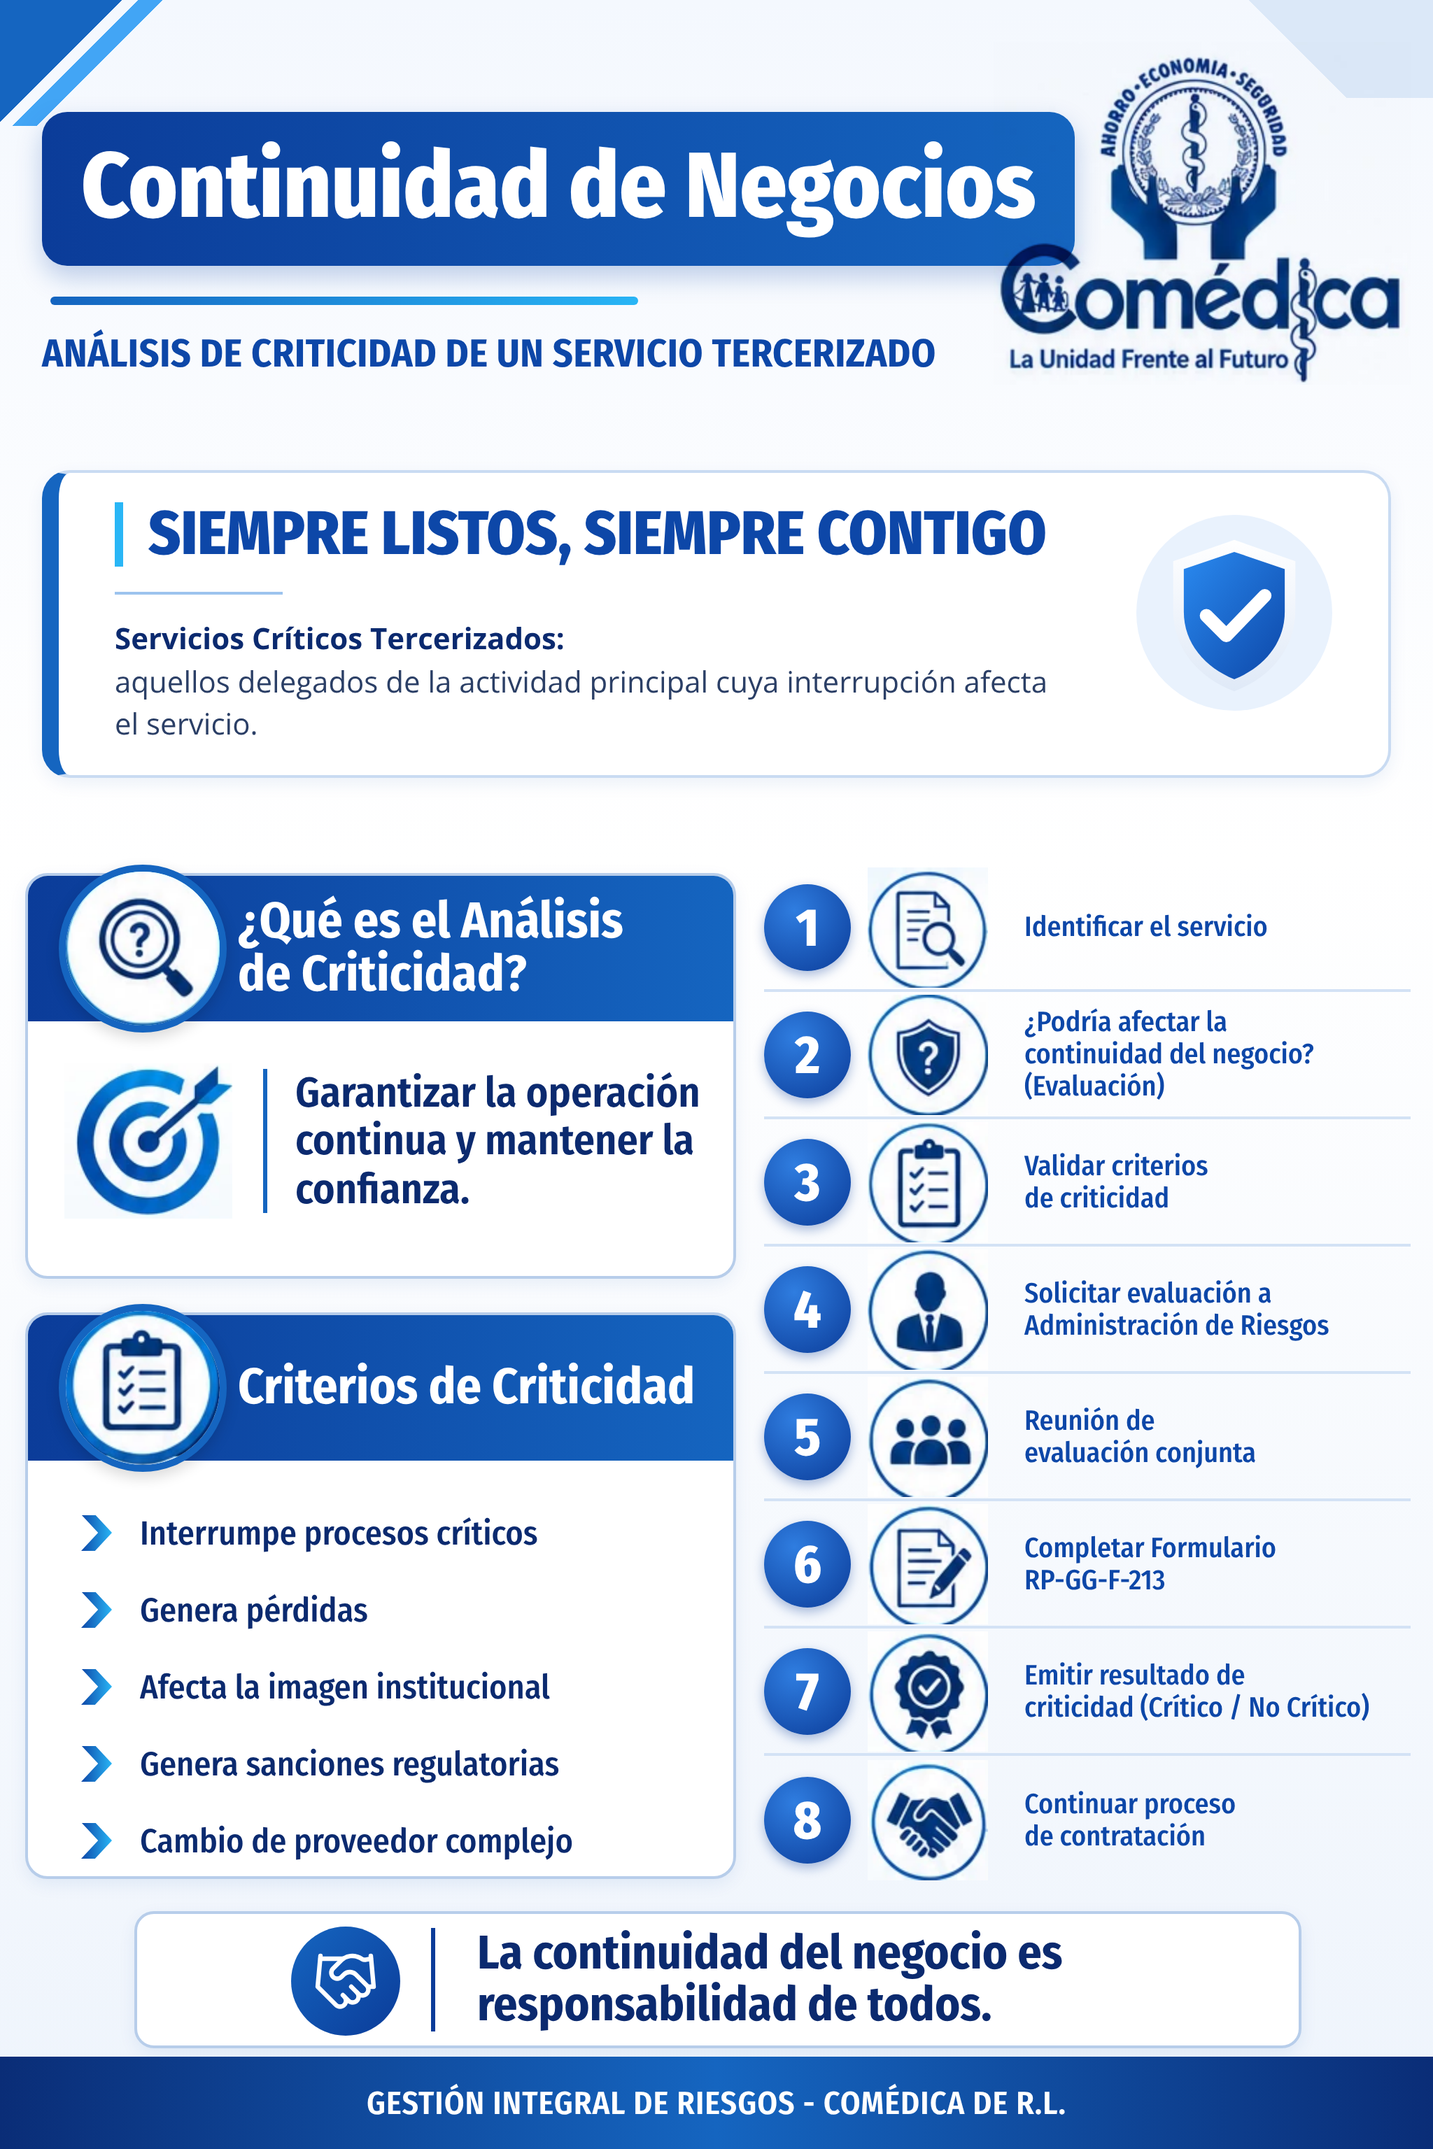
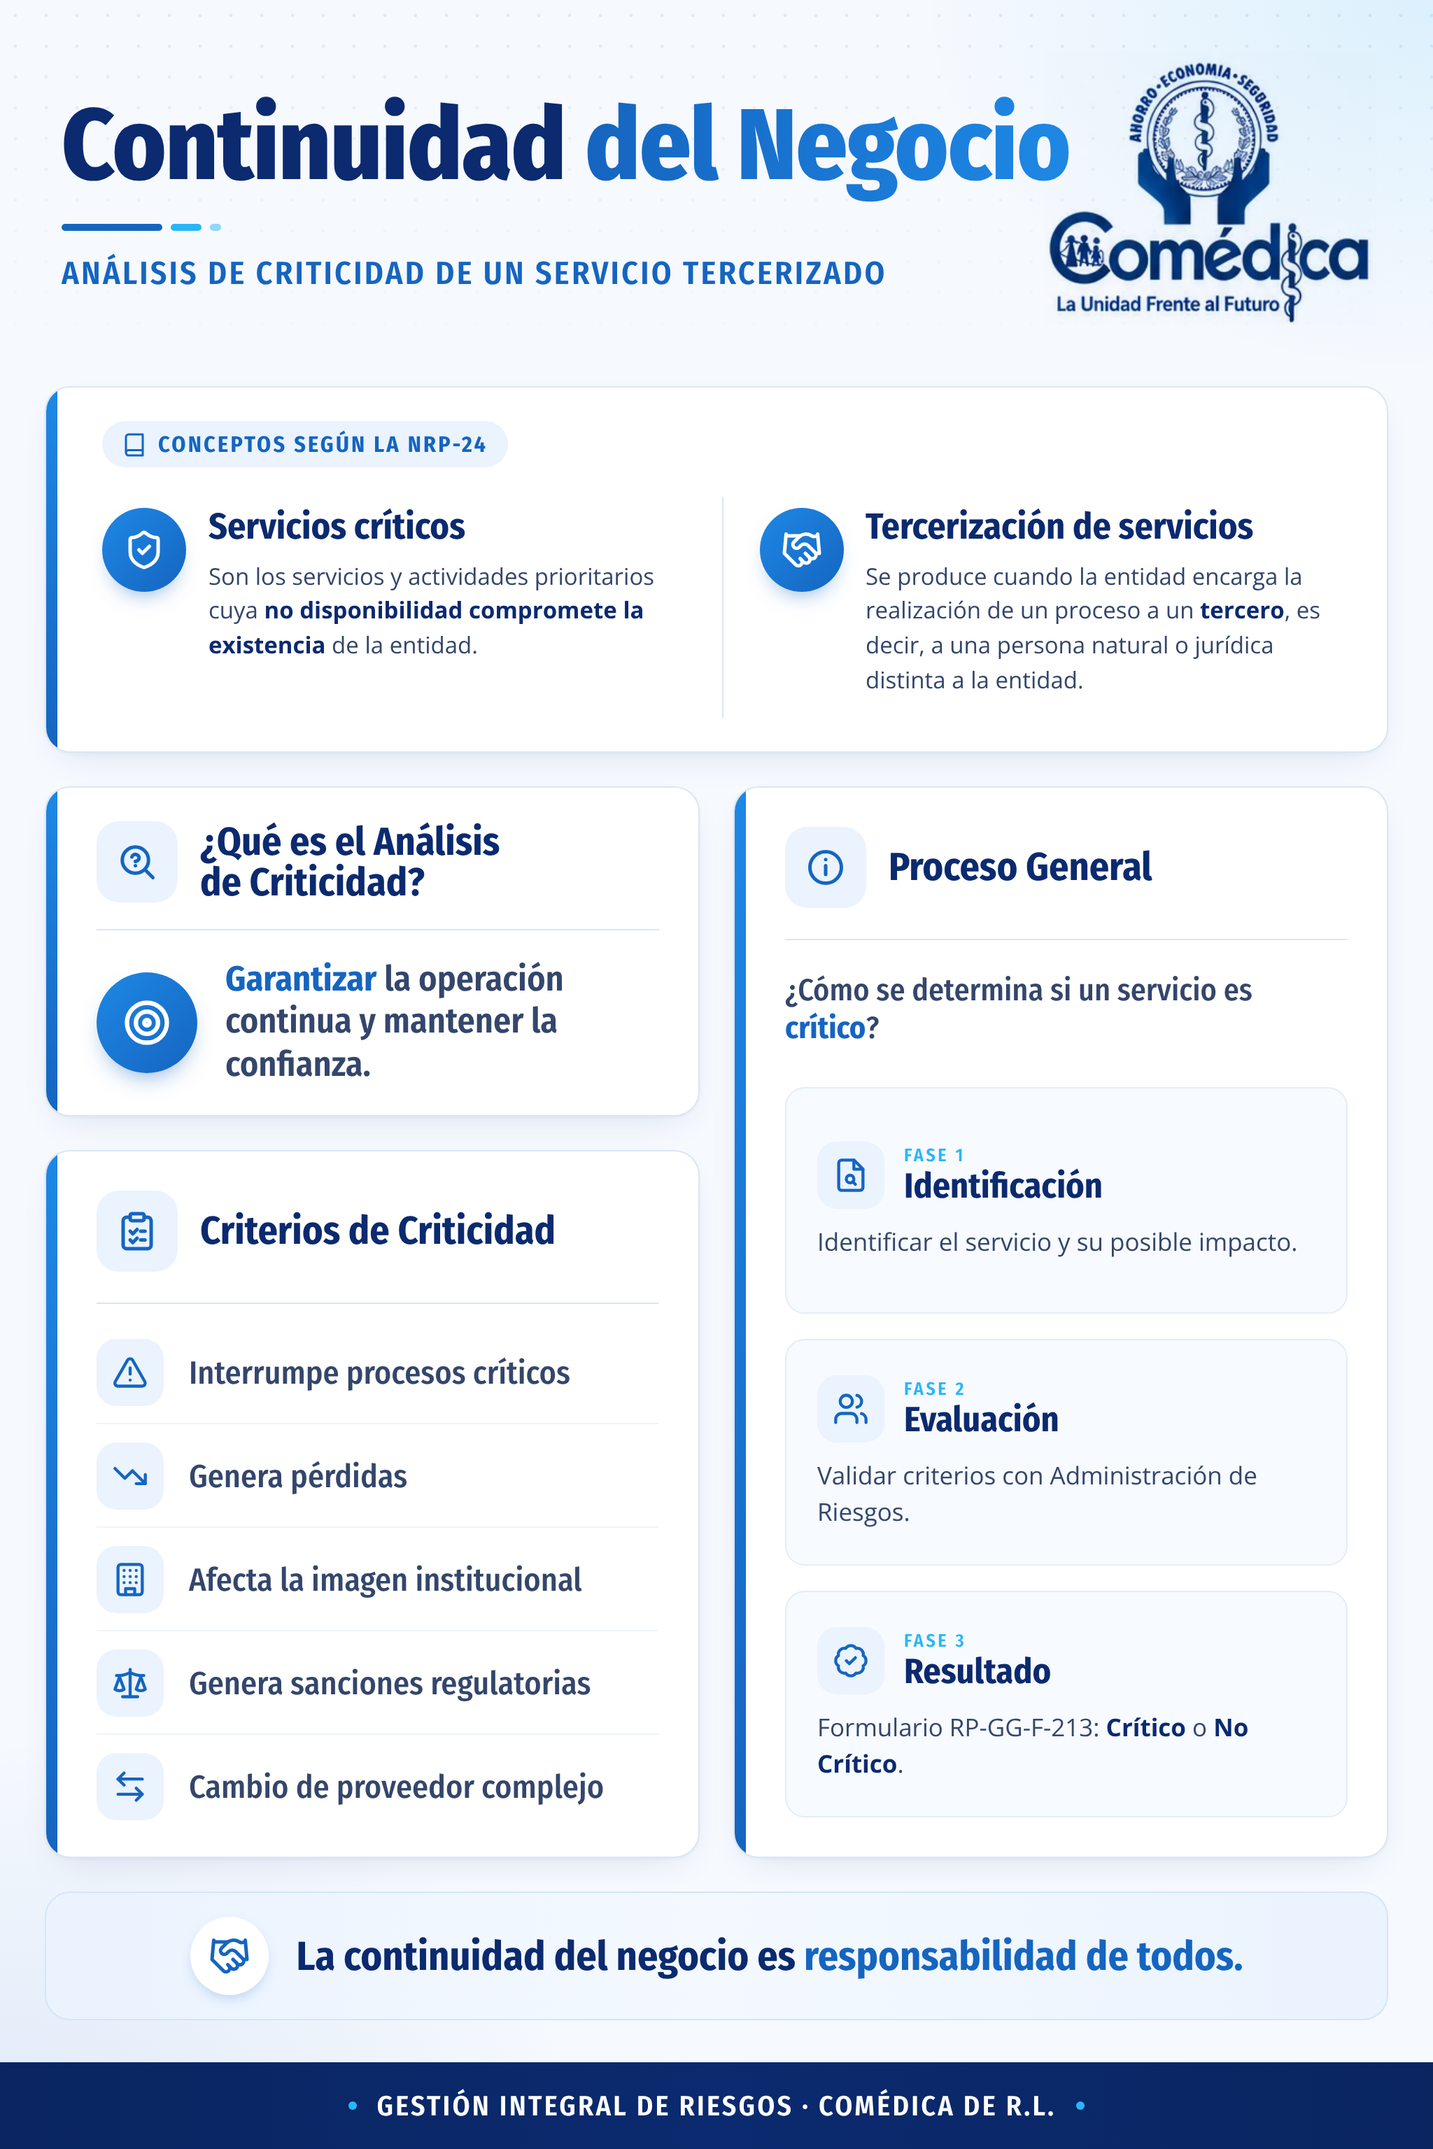
Final bulletin: Continuidad del Negocio title, NRP-24 concepts, option A process
Claude-Session: https://claude.ai/code/session_013QquNuL1JEfsvtRZYgMi7y

diff --git a/boletin-continuidad-negocios/fuente/boletin_final.html b/boletin-continuidad-negocios/fuente/boletin_final.html
@@ -1,0 +1,183 @@
+<!doctype html>
+<html lang="es"><head><meta charset="utf-8">
+<link href="https://fonts.googleapis.com/css2?family=Fira+Sans+Condensed:wght@500;600;700;800&family=Open+Sans:wght@400;600;700&display=swap" rel="stylesheet">
+<style>
+*{box-sizing:border-box;margin:0;padding:0}
+:root{--navy:#0b2a6f;--blue:#1565c0;--blue2:#1e88e5;--sky:#29b6f6;--line:#dbe6f4;--soft:#eaf3fe;--txt:#34466b;--muted:#6b7c9c}
+body{width:1024px;height:1536px;font-family:'Open Sans',sans-serif;color:var(--navy);position:relative;overflow:hidden;
+  background:
+    radial-gradient(520px 380px at 100% 0%,rgba(41,182,246,.13),transparent 70%),
+    radial-gradient(600px 420px at 0% 100%,rgba(21,101,192,.10),transparent 70%),
+    #f6f9fe}
+.dots{position:absolute;inset:0;background-image:radial-gradient(rgba(21,101,192,.10) 1.2px,transparent 1.3px);background-size:22px 22px;
+  -webkit-mask-image:linear-gradient(180deg,#000 0,transparent 260px);mask-image:linear-gradient(180deg,#000 0,transparent 260px)}
+svg.i{fill:none;stroke:currentColor;stroke-width:2;stroke-linecap:round;stroke-linejoin:round}
+.fc{font-family:'Fira Sans Condensed',sans-serif}
+
+/* header */
+.header{position:absolute;top:70px;left:44px}
+.title{font-family:'Fira Sans Condensed';font-weight:800;font-size:72px;line-height:.95;letter-spacing:-.5px;color:var(--navy)}
+.title span{background:linear-gradient(90deg,var(--blue),var(--blue2));-webkit-background-clip:text;background-clip:text;color:transparent}
+.rule{display:flex;gap:6px;margin:22px 0 16px}
+.rule i{display:block;height:5px;border-radius:3px;background:var(--sky)}
+.rule i:first-child{width:72px;background:var(--blue)}
+.rule i:nth-child(2){width:22px}
+.rule i:nth-child(3){width:8px;opacity:.5}
+.subtitle{font-family:'Fira Sans Condensed';font-weight:600;font-size:23px;letter-spacing:1.6px;color:var(--blue)}
+.logo{position:absolute;top:36px;right:40px;width:238px;mix-blend-mode:multiply}
+
+/* cards */
+.card{position:absolute;background:#fff;border:1px solid var(--line);border-radius:18px;
+  box-shadow:0 1px 2px rgba(11,42,111,.04),0 10px 28px -12px rgba(11,42,111,.14);overflow:hidden}
+.card::before{content:"";position:absolute;left:0;top:0;bottom:0;width:8px;background:linear-gradient(180deg,var(--blue2),var(--blue))}
+.chip{width:58px;height:58px;border-radius:16px;background:var(--soft);color:var(--blue);display:flex;align-items:center;justify-content:center;flex:none}
+.chip svg{width:30px;height:30px}
+.hd{display:flex;align-items:center;gap:16px;font-family:'Fira Sans Condensed';font-weight:700;font-size:28px;line-height:1.05;color:var(--navy)}
+.sep{height:1px;background:var(--line)}
+
+/* banner */
+.banner{top:276px;left:32px;right:32px;height:196px}
+.banner .txt{position:absolute;left:44px;top:0;bottom:0;right:220px;display:flex;flex-direction:column;justify-content:center}
+.eyebrow{font-family:'Fira Sans Condensed';font-weight:600;font-size:16px;letter-spacing:2px;color:var(--sky);margin-bottom:6px}
+.banner h2{font-family:'Fira Sans Condensed';font-weight:800;font-size:42px;line-height:1;color:var(--navy)}
+.banner h2 span{color:var(--blue)}
+.banner p{margin-top:16px;font-size:18.5px;line-height:1.5;color:var(--txt);max-width:640px}
+.banner p b{color:var(--navy);font-weight:700}
+.sh{position:absolute;right:52px;top:30px;width:136px;height:136px;border-radius:50%;
+  background:radial-gradient(circle at 50% 45%,#fff 0 38%,var(--soft) 39% 100%);box-shadow:inset 0 0 0 1px #d4e5fa}
+.sh::after{content:"";position:absolute;inset:-12px;border-radius:50%;border:1px dashed #c3d9f5}
+.sh svg{position:absolute;left:50%;top:50%;transform:translate(-50%,-50%);width:78px;height:92px;filter:drop-shadow(0 6px 8px rgba(21,101,192,.28))}
+
+/* left column */
+.c1{top:500px;left:32px;width:468px;height:262px}
+.c1 .hd{padding:28px 28px 0 36px}
+.c1 .sep{margin:22px 28px 0 36px}
+.c1 .body{display:flex;align-items:center;gap:20px;padding:24px 28px 0 36px}
+.c1 .body .chip{width:72px;height:72px;border-radius:50%;background:linear-gradient(135deg,var(--blue2),var(--blue));color:#fff;box-shadow:0 8px 16px -6px rgba(21,101,192,.5)}
+.c1 .body .chip svg{width:38px;height:38px}
+.c1 .body p{font-family:'Fira Sans Condensed';font-weight:600;font-size:25px;line-height:1.22;color:var(--txt)}
+.c1 .body p b{color:var(--blue);font-weight:700}
+
+.c2{top:786px;left:32px;width:468px;height:542px}
+.c2 .hd{padding:28px 28px 0 36px}
+.c2 .sep{margin:22px 28px 0 36px}
+.c2 ul{list-style:none;padding:12px 28px 0 36px}
+.c2 li{height:82px;display:flex;align-items:center;gap:18px;border-bottom:1px solid #eef3fa;font-family:'Fira Sans Condensed';font-weight:500;font-size:23px;color:var(--txt)}
+.c2 li:last-child{border-bottom:none}
+.c2 li .chip{width:48px;height:48px;border-radius:14px}
+.c2 li .chip svg{width:26px;height:26px}
+
+/* steps */
+.c3{top:500px;left:524px;right:32px;height:828px}
+.c3 .hd{padding:28px 28px 0 36px}
+.c3 .sep{margin:22px 28px 0 36px}
+.tl{position:absolute;left:36px;right:24px;top:122px}
+.tl::before{content:"";position:absolute;left:19px;top:30px;bottom:30px;width:2px;background:repeating-linear-gradient(180deg,#bcd5f3 0 6px,transparent 6px 11px)}
+.st{position:relative;height:86px;display:flex;align-items:center}
+.n{width:40px;height:40px;border-radius:50%;background:#fff;border:2px solid var(--blue);color:var(--blue);font-family:'Fira Sans Condensed';font-weight:700;font-size:20px;display:flex;align-items:center;justify-content:center;flex:none;position:relative;z-index:1}
+.st:last-child .n{background:var(--blue);color:#fff}
+.st .chip{width:50px;height:50px;border-radius:14px;margin-left:16px}
+.st .chip svg{width:28px;height:28px}
+.st .l{margin-left:16px;font-family:'Fira Sans Condensed';font-weight:500;font-size:19px;line-height:1.18;color:var(--txt)}
+.st .l b{font-weight:700;color:var(--navy)}
+
+/* closing */
+.closing{position:absolute;left:32px;right:32px;top:1352px;height:92px;border-radius:18px;
+  background:linear-gradient(90deg,#eaf3fe,#f4f9ff 50%,#eaf3fe);border:1px solid #d4e5fa;display:flex;align-items:center;justify-content:center;gap:20px}
+.closing .chip{width:56px;height:56px;border-radius:50%;background:#fff;box-shadow:0 4px 10px -4px rgba(21,101,192,.35)}
+.closing p{font-family:'Fira Sans Condensed';font-weight:700;font-size:29px;color:var(--navy)}
+.closing p span{color:var(--blue)}
+.foot{position:absolute;bottom:0;left:0;right:0;height:62px;background:linear-gradient(90deg,#0a2560,var(--navy) 50%,#0a2560);color:#fff;display:flex;align-items:center;justify-content:center;gap:14px;font-family:'Fira Sans Condensed';font-weight:600;font-size:20px;letter-spacing:1.6px}
+.foot i{width:6px;height:6px;border-radius:50%;background:var(--sky);display:block}
+
+.c3 .intro{padding:22px 30px 0 36px;font-family:'Fira Sans Condensed';font-weight:500;font-size:22px;color:var(--txt)}
+.c3 .intro b{color:var(--blue)}
+.ph{margin:22px 28px 0 36px;padding:22px 22px;border-radius:14px;background:#f7faff;border:1px solid #e3edf9}
+.phh{display:flex;align-items:center;gap:14px;font-family:'Fira Sans Condensed';font-weight:700;font-size:25px;color:var(--navy);line-height:1}
+.phh small{display:block;font-size:13px;letter-spacing:1.8px;color:var(--sky);margin-bottom:4px;font-weight:600}
+.phh .chip{width:48px;height:48px;border-radius:14px;background:var(--soft)}
+.phh .chip svg{width:26px;height:26px}
+.ph p{margin-top:12px;font-size:16.5px;line-height:1.5;color:var(--txt)}
+.ph p b{color:var(--navy)}
+.res{position:absolute;left:36px;right:28px;bottom:26px;display:flex;align-items:center;justify-content:center;gap:12px;font-family:'Fira Sans Condensed';font-weight:600;font-size:20px;color:var(--navy)}
+.res em{font-style:normal;padding:7px 18px;border-radius:999px;font-size:18px}
+.res .cr{background:var(--blue);color:#fff}
+.res .nc{background:var(--soft);color:var(--blue);border:1px solid #c9dcf5}
+</style><style>.phs{position:absolute;left:0;right:0;top:190px;bottom:30px;display:flex;flex-direction:column;justify-content:space-between}
+.ph{margin:0 28px 0 36px!important;padding:26px 24px!important}.ph p{font-size:18px!important}</style><style>
+.banner{top:276px!important;height:262px!important}
+.tag{position:absolute;left:40px;top:24px;display:inline-flex;align-items:center;gap:8px;padding:7px 14px;border-radius:999px;background:var(--soft);color:var(--blue);font-family:'Fira Sans Condensed';font-weight:700;font-size:16px;letter-spacing:1.6px}
+.tag svg{width:18px;height:18px}
+.cols{position:absolute;left:40px;right:32px;top:78px;bottom:24px;display:flex;align-items:stretch;gap:26px}
+.cc{flex:1;display:flex;gap:16px;align-items:flex-start;padding-top:8px}
+.ci{width:60px;height:60px;border-radius:50%;background:linear-gradient(135deg,var(--blue2),var(--blue));color:#fff;display:flex;align-items:center;justify-content:center;flex:none;box-shadow:0 8px 16px -8px rgba(21,101,192,.6)}
+.ci svg{width:30px;height:30px}
+.cc h3{font-family:'Fira Sans Condensed';font-weight:700;font-size:26px;color:var(--navy);line-height:1.1}
+.cc p{margin-top:8px;font-size:16.5px;line-height:1.5;color:var(--txt)}
+.cc p b{color:var(--navy)}
+.vd{width:1px;background:var(--line)}
+.c1{top:562px!important;height:236px!important}
+.c1 .hd{padding-top:24px!important}.c1 .sep{margin-top:18px!important}.c1 .body{padding-top:20px!important}
+.c2{top:822px!important;height:506px!important}
+.c2 li{height:74px!important}
+.c3{top:562px!important;height:766px!important}
+.phs{top:214px!important;bottom:28px!important;justify-content:flex-start!important;gap:18px}.phs .ph{flex:1;display:flex;flex-direction:column;justify-content:center}
+.ph{padding:20px 22px!important}.ph p{font-size:17.5px!important;margin-top:10px!important}
+</style></head><body>
+<div class="dots"></div>
+
+<div class="header">
+  <div class="title">Continuidad <span>del Negocio</span></div>
+  <div class="rule"><i></i><i></i><i></i></div>
+  <div class="subtitle">ANÁLISIS DE CRITICIDAD DE UN SERVICIO TERCERIZADO</div>
+</div>
+<img class="logo" src="logo.png" alt="Comédica">
+
+<div class="card banner">
+  <div class="tag"><svg viewBox="0 0 24 24" class="i"><path d="M4 19.5v-15A2.5 2.5 0 0 1 6.5 2H20v20H6.5a2.5 2.5 0 0 1 0-5H20"/></svg>CONCEPTOS SEGÚN LA NRP-24</div>
+  <div class="cols">
+    <div class="cc"><div class="ci"><svg viewBox="0 0 24 24" class="i"><path d="M20 13c0 5-3.5 7.5-7.7 9a1 1 0 0 1-.7 0C7.5 20.5 4 18 4 13V6a1 1 0 0 1 1-1c2 0 4.5-1.2 6.2-2.7a1.2 1.2 0 0 1 1.5 0C14.5 3.8 17 5 19 5a1 1 0 0 1 1 1z"/><path d="m9 12 2 2 4-4"/></svg></div><div><h3>Servicios críticos</h3><p>Son los servicios y actividades prioritarios cuya <b>no disponibilidad compromete la existencia</b> de la entidad.</p></div></div>
+    <div class="vd"></div>
+    <div class="cc"><div class="ci"><svg viewBox="0 0 24 24" class="i"><path d="m11 17 2 2a1 1 0 1 0 3-3"/><path d="m14 14 2.5 2.5a1 1 0 1 0 3-3l-3.88-3.88a3 3 0 0 0-4.24 0l-.88.88a1 1 0 1 1-3-3l2.81-2.81a5.79 5.79 0 0 1 7.06-.87l.47.28a2 2 0 0 0 1.42.25L21 4"/><path d="m21 3 1 11h-2"/><path d="M3 3 2 14l6.5 6.5a1 1 0 1 0 3-3"/><path d="M3 4h8"/></svg></div><div><h3>Tercerización de servicios</h3><p>Se produce cuando la entidad encarga la realización de un proceso a un <b>tercero</b>, es decir, a una persona natural o jurídica distinta a la entidad.</p></div></div>
+  </div>
+</div>
+
+<div class="card c1">
+  <div class="hd"><div class="chip"><svg class="i" viewBox="0 0 24 24"><circle cx="11" cy="11" r="7.5"/><path d="m21 21-4.6-4.6"/><path d="M9 9.2a2.1 2.1 0 0 1 4.1.6c0 1.4-2.1 2-2.1 2"/><path d="M11 14.2h.01"/></svg></div>¿Qué es el Análisis<br>de Criticidad?</div>
+  <div class="sep"></div>
+  <div class="body">
+    <div class="chip"><svg class="i" viewBox="0 0 24 24"><circle cx="12" cy="12" r="9"/><circle cx="12" cy="12" r="5"/><circle cx="12" cy="12" r="1.2"/></svg></div>
+    <p><b>Garantizar</b> la operación continua y mantener la confianza.</p>
+  </div>
+</div>
+
+<div class="card c2">
+  <div class="hd"><div class="chip"><svg class="i" viewBox="0 0 24 24"><rect width="8" height="4" x="8" y="2" rx="1"/><path d="M16 4h2a2 2 0 0 1 2 2v14a2 2 0 0 1-2 2H6a2 2 0 0 1-2-2V6a2 2 0 0 1 2-2h2"/><path d="m8 12 1.5 1.5L12 11"/><path d="M14 12h2.5"/><path d="m8 17 1.5 1.5L12 16"/><path d="M14 17h2.5"/></svg></div>Criterios de Criticidad</div>
+  <div class="sep"></div>
+  <ul>
+    <li><div class="chip"><svg class="i" viewBox="0 0 24 24"><path d="m21.7 18-8-14a2 2 0 0 0-3.5 0l-8 14A2 2 0 0 0 4 21h16a2 2 0 0 0 1.7-3"/><path d="M12 9v4"/><path d="M12 17h.01"/></svg></div>Interrumpe procesos críticos</li>
+    <li><div class="chip"><svg class="i" viewBox="0 0 24 24"><polyline points="22 17 13.5 8.5 8.5 13.5 2 7"/><polyline points="16 17 22 17 22 11"/></svg></div>Genera pérdidas</li>
+    <li><div class="chip"><svg class="i" viewBox="0 0 24 24"><rect width="16" height="20" x="4" y="2" rx="2"/><path d="M9 22v-4h6v4"/><path d="M8 6h.01M12 6h.01M16 6h.01M8 10h.01M12 10h.01M16 10h.01M8 14h.01M12 14h.01M16 14h.01"/></svg></div>Afecta la imagen institucional</li>
+    <li><div class="chip"><svg class="i" viewBox="0 0 24 24"><path d="m16 16 3-8 3 8c-.9.7-1.9 1-3 1s-2.1-.3-3-1Z"/><path d="m2 16 3-8 3 8c-.9.7-1.9 1-3 1s-2.1-.3-3-1Z"/><path d="M7 21h10"/><path d="M12 3v18"/><path d="M3 7h2c2 0 5-1 7-2 2 1 5 2 7 2h2"/></svg></div>Genera sanciones regulatorias</li>
+    <li><div class="chip"><svg class="i" viewBox="0 0 24 24"><path d="M8 3 4 7l4 4"/><path d="M4 7h16"/><path d="m16 21 4-4-4-4"/><path d="M20 17H4"/></svg></div>Cambio de proveedor complejo</li>
+  </ul>
+</div>
+
+<div class="card c3">
+  <div class="hd"><div class="chip"><svg class="i" viewBox="0 0 24 24"><circle cx="12" cy="12" r="9"/><path d="M12 11v5"/><path d="M12 7.5h.01"/></svg></div>Proceso General</div>
+  <div class="sep"></div>
+  <p class="intro">¿Cómo se determina si un servicio es <b>crítico</b>?</p>
+  <div class="phs">
+  <div class="ph"><div class="phh"><div class="chip"><svg class="i" viewBox="0 0 24 24"><path d="M14 2H6a2 2 0 0 0-2 2v16a2 2 0 0 0 2 2h12a2 2 0 0 0 2-2V8z"/><path d="M14 2v6h6"/><circle cx="11.5" cy="14.5" r="2.5"/><path d="M13.3 16.3 15 18"/></svg></div><div><small>FASE 1</small>Identificación</div></div><p>Identificar el servicio y su posible impacto.</p></div>
+  <div class="ph"><div class="phh"><div class="chip"><svg class="i" viewBox="0 0 24 24"><path d="M16 21v-2a4 4 0 0 0-4-4H6a4 4 0 0 0-4 4v2"/><circle cx="9" cy="7" r="4"/><path d="M22 21v-2a4 4 0 0 0-3-3.9"/><path d="M16 3.1a4 4 0 0 1 0 7.8"/></svg></div><div><small>FASE 2</small>Evaluación</div></div><p>Validar criterios con Administración de Riesgos.</p></div>
+  <div class="ph"><div class="phh"><div class="chip"><svg class="i" viewBox="0 0 24 24"><path d="M3.85 8.62a4 4 0 0 1 4.78-4.77 4 4 0 0 1 6.74 0 4 4 0 0 1 4.78 4.78 4 4 0 0 1 0 6.74 4 4 0 0 1-4.77 4.78 4 4 0 0 1-6.75 0 4 4 0 0 1-4.78-4.77 4 4 0 0 1 0-6.76Z"/><path d="m9 12 2 2 4-4"/></svg></div><div><small>FASE 3</small>Resultado</div></div><p>Formulario RP-GG-F-213: <b>Crítico</b> o <b>No Crítico</b>.</p></div>
+  </div>
+</div>
+
+<div class="closing">
+  <div class="chip" style="color:var(--blue)"><svg class="i" viewBox="0 0 24 24" style="width:30px;height:30px"><path d="m11 17 2 2a1 1 0 1 0 3-3"/><path d="m14 14 2.5 2.5a1 1 0 1 0 3-3l-3.88-3.88a3 3 0 0 0-4.24 0l-.88.88a1 1 0 1 1-3-3l2.81-2.81a5.79 5.79 0 0 1 7.06-.87l.47.28a2 2 0 0 0 1.42.25L21 4"/><path d="m21 3 1 11h-2"/><path d="M3 3 2 14l6.5 6.5a1 1 0 1 0 3-3"/><path d="M3 4h8"/></svg></div>
+  <p>La continuidad del negocio es <span>responsabilidad de todos.</span></p>
+</div>
+
+<div class="foot"><i></i>GESTIÓN INTEGRAL DE RIESGOS · COMÉDICA DE R.L.<i></i></div>
+</body></html>
